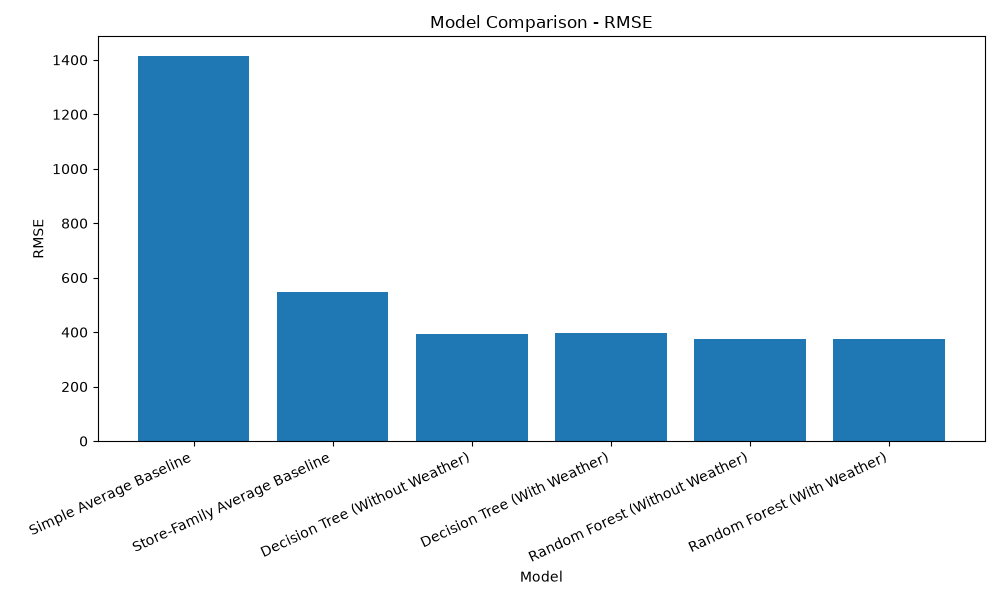
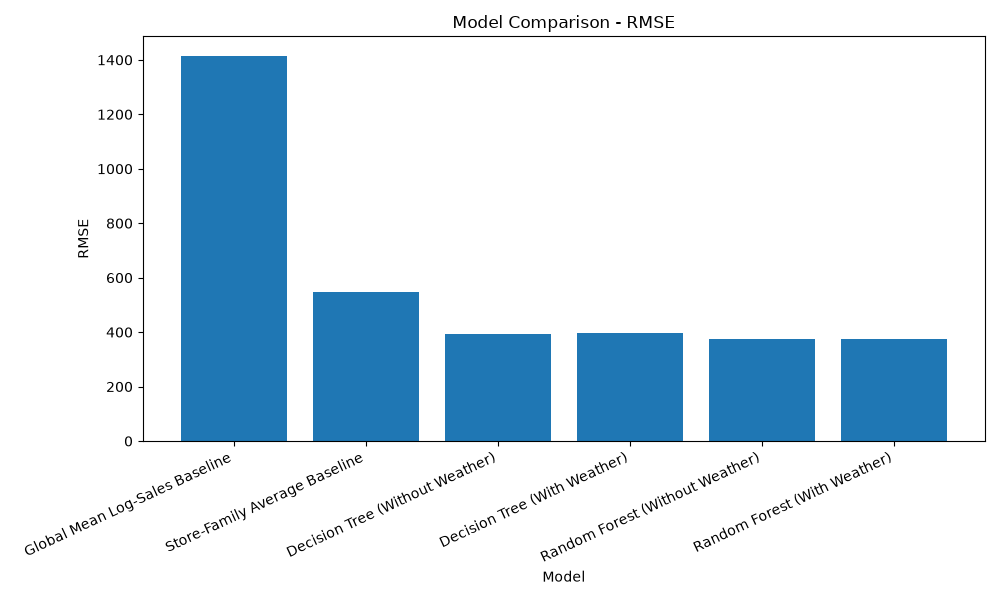
small modifications

diff --git a/src/machine_learning.py b/src/machine_learning.py
@@ -226,8 +226,9 @@ y_test_actual = test["sales"].to_numpy()
 # BASELINE 1: SIMPLE AVERAGE
 # =========================================
 
-print("\n--- BASELINE 1: SIMPLE AVERAGE ---")
+print("\n--- BASELINE 1: GLOBAL MEAN LOG-SALES ---")
 
+# Create the baseline model
 baseline_model = DummyRegressor(strategy="mean")
 
 # Train the model
@@ -767,7 +768,7 @@ print("\n--- MODEL COMPARISON ---")
 
 comparison_df = pd.DataFrame({
     "Model": [
-        "Simple Average Baseline",
+        "Global Mean Log-Sales Baseline",
         "Store-Family Average Baseline",
         "Decision Tree (Without Weather)",
         "Decision Tree (With Weather)",
@@ -821,7 +822,6 @@ comparison_df.to_csv(
 )
 
 print("\nModel comparison saved successfully!")
-print("Model comparison saved successfully!")
 
 # ==========================================
 # WEATHER FEATURE IMPORTANCE
